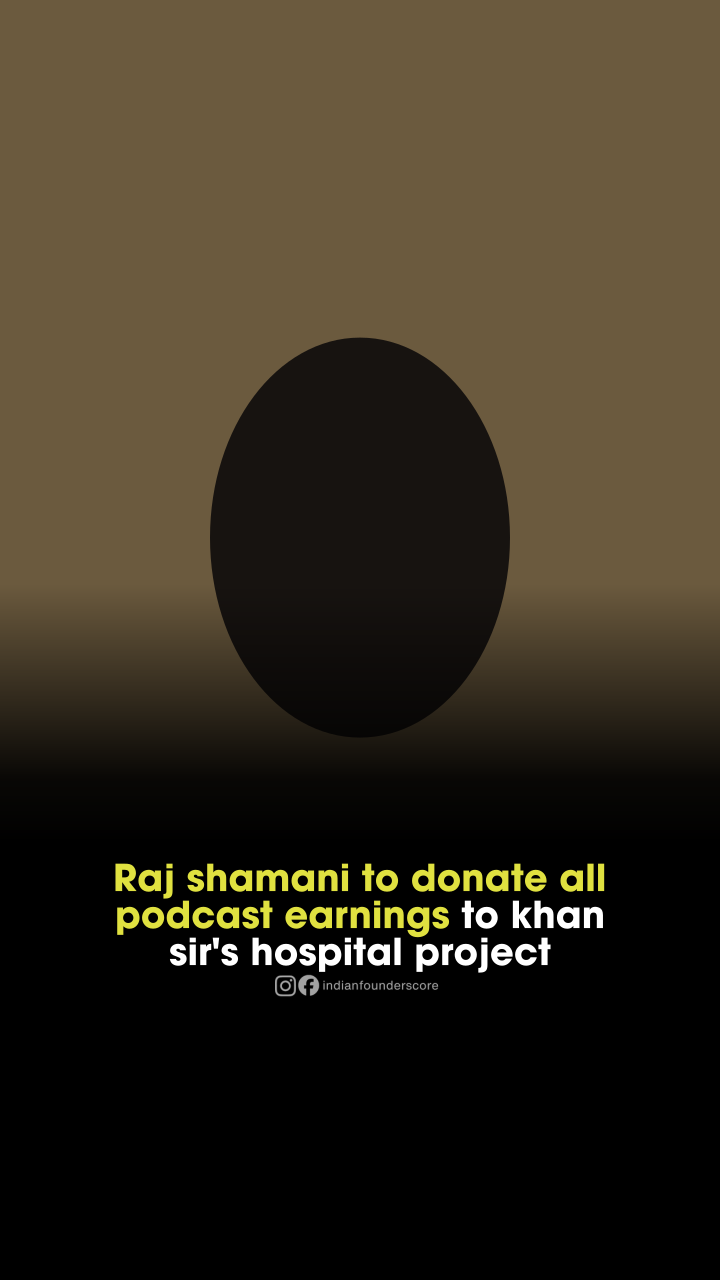
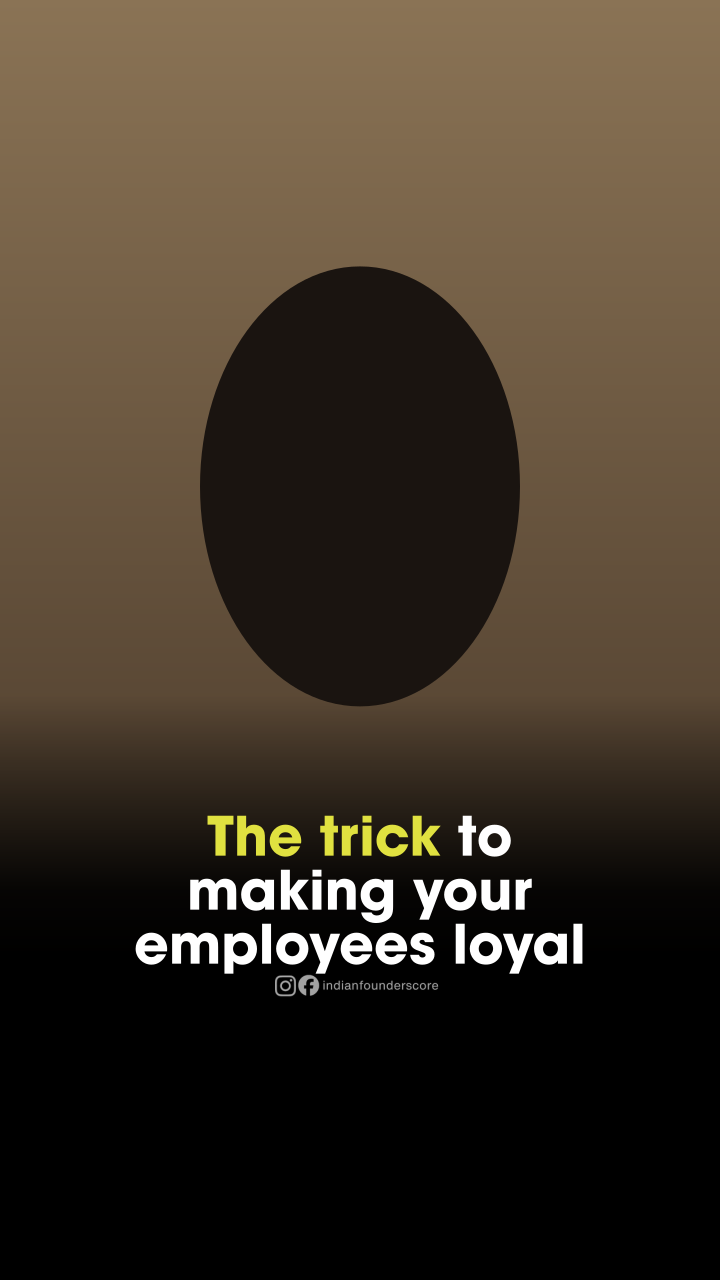
Raise ifc2-news hook onto the gradient and wire Helvetica World Bold.
Solid black bar now starts under the hook so text rides the fade; Helvetica World Bold loads when the licensed file is present.

Changed region(s): [[0.0, 0.4688, 1.0, 0.7812], [0.0, 0.0, 1.0, 0.0938], [0.275, 0.1875, 0.7333, 0.4688]]

diff --git a/hello.jsx b/hello.jsx
@@ -19,8 +19,9 @@ import {
     getNewsTickerFitRatios,
     getNewsTickerBottomMarginRatio,
     getNewsTickerGradientHeight,
-    getNewsTickerBlackPadAbove,
+    getNewsTickerSolidTopOffset,
     getNewsTickerHandleLockup,
+    getNewsTickerFontFamily,
     isPlainTextNewsTicker,
 } from './shared/headlineLayout.js';
 // Inter is loaded globally via public/fonts/*.woff2 (see index.css)
@@ -1658,7 +1659,7 @@ const PreviewCard = memo(({
                                     const isIFC2 = preset.name === 'ifc2-news';
                                     const isPlainText = isPlainTextNewsTicker(preset);
                                     const ntFontWeight = 700;
-                                    const ntFontFamily = "'ITC Avant Garde Gothic', sans-serif";
+                                    const ntFontFamily = getNewsTickerFontFamily(preset);
                                     const [rw, rh] = (preset.ratio || '9:16').split(':').map(Number);
                                     const exportCanvasH = Math.round(720 * (rh / rw));
                                     // Handle lockup reserves a fixed box under the hook (mirrors export)
@@ -1678,14 +1679,16 @@ const PreviewCard = memo(({
                                     const { highlightH, lineGap } = getNewsTickerLineMetrics(preset, fittedExportFs);
                                     const totalBarsH = getNewsTickerStackHeight(preset, fittedExportFs, lines.length);
                                     const bottomMarginPct = getNewsTickerBottomMarginRatio(preset) * 100;
-                                    const blackBandHPct = bottomMarginPct + ((totalBarsH + lockupBlockH) / exportCanvasH) * 100;
-                                    const gradientHPct = (getNewsTickerGradientHeight(preset, exportCanvasH) / exportCanvasH) * 100;
-                                    const lineGapPx = lineGap * previewScale;
                                     // headlinePosition.y = % to raise hook text + gradient
                                     const shiftUpPct = Math.max(0, Math.min(48, localHeadlinePos?.y || 0));
-                                    // Match export: solid pad above first line + black always to frame bottom
-                                    const blackPadPct = (getNewsTickerBlackPadAbove(preset, fittedExportFs) / exportCanvasH) * 100;
-                                    const solidBlackHPct = blackBandHPct + shiftUpPct + blackPadPct;
+                                    // Solid cover: plain-text ifc2 starts under the hook; others pad above it
+                                    const solidTopOffset = getNewsTickerSolidTopOffset(preset, fittedExportFs, totalBarsH);
+                                    const blackBandHPct = bottomMarginPct
+                                        + ((totalBarsH + lockupBlockH) / exportCanvasH) * 100
+                                        + (solidTopOffset / exportCanvasH) * 100;
+                                    const gradientHPct = (getNewsTickerGradientHeight(preset, exportCanvasH) / exportCanvasH) * 100;
+                                    const lineGapPx = lineGap * previewScale;
+                                    const solidBlackHPct = blackBandHPct + shiftUpPct;
                                     const gradientBottomPct = solidBlackHPct; // gradient sits on top of solid cover
 
                                     return (
@@ -2558,7 +2561,10 @@ export default function App() {
     const [newsFontReady, setNewsFontReady] = useState(false);
     useEffect(() => {
         if (!document.fonts) { setNewsFontReady(true); return; }
-        document.fonts.load("700 54px 'ITC Avant Garde Gothic'")
+        Promise.all([
+            document.fonts.load("700 54px 'ITC Avant Garde Gothic'"),
+            document.fonts.load("700 54px 'Helvetica World'"),
+        ])
             .catch(() => {})
             .then(() => document.fonts.ready)
             .then(() => {
@@ -3125,6 +3131,15 @@ export default function App() {
                     font-weight: 700;
                     font-display: swap;
                     src: url('/fonts/ITCAvantGardeGothic-Bold.otf') format('opentype');
+                }
+                /* Helvetica World Bold for indianfounderscore (ifc2-news). Drop licensed file at public/fonts/. */
+                @font-face {
+                    font-family: 'Helvetica World';
+                    font-style: normal;
+                    font-weight: 700;
+                    font-display: swap;
+                    src: url('/fonts/HelveticaWorld-Bold.otf') format('opentype'),
+                         url('/fonts/HelveticaWorld-Bold.ttf') format('truetype');
                 }
                 .pintu-scroll::-webkit-scrollbar {
                     width: 8px;

diff --git a/server/videoProcessor.js b/server/videoProcessor.js
@@ -19,7 +19,7 @@ import {
   getNewsTickerFitRatios,
   getNewsTickerBottomMarginRatio,
   getNewsTickerGradientHeight,
-  getNewsTickerBlackPadAbove,
+  getNewsTickerSolidTopOffset,
   getNewsTickerHandleLockup,
   isPlainTextNewsTicker,
 } from '../shared/headlineLayout.js';
@@ -191,6 +191,30 @@ let _otAvantGardeBold = null;
 try {
   if (existsSync(avantGardeBold)) { _otAvantGardeBold = opentypeLoad(avantGardeBold); console.log('✓ ITC Avant Garde Gothic Bold loaded via opentype.js'); }
 } catch (e) { console.warn('ITC Avant Garde Gothic opentype load failed:', e.message); }
+
+// Helvetica World Bold for indianfounderscore (ifc2-news). Drop the licensed file at
+// server/assets/fonts/HelveticaWorld-Bold.otf (or .ttf) — commercial Monotype face.
+const helveticaWorldBoldCandidates = [
+  resolve(fontsDir, 'HelveticaWorld-Bold.otf'),
+  resolve(fontsDir, 'HelveticaWorld-Bold.ttf'),
+  resolve(fontsDir, 'Helvetica World Bold.otf'),
+  resolve(fontsDir, 'Helvetica World Bold.ttf'),
+];
+const helveticaWorldBold = helveticaWorldBoldCandidates.find((p) => existsSync(p)) || null;
+let _otHelveticaWorldBold = null;
+try {
+  if (helveticaWorldBold) {
+    _otHelveticaWorldBold = opentypeLoad(helveticaWorldBold);
+    console.log('✓ Helvetica World Bold loaded via opentype.js:', helveticaWorldBold);
+  } else {
+    console.warn('Helvetica World Bold not found — ifc2-news will fall back to ITC Avant Garde');
+  }
+} catch (e) { console.warn('Helvetica World Bold opentype load failed:', e.message); }
+
+function newsTickerOpentypeFont(preset) {
+  if (isPlainTextNewsTicker(preset) && _otHelveticaWorldBold) return _otHelveticaWorldBold;
+  return _otAvantGardeBold;
+}
 
 function drawVerifiedBadge(ctx, cx, cy, sz) {
   const half = sz / 2;
@@ -808,11 +832,12 @@ async function generateNewsTickerOverlay(preset, headline, fontScale, wordSpacin
   // keep video dominant like Canva (~bottom 28%)
   const maxTickerH = Math.round(canvasH * 0.28) - lockupBlockH;
   let cleanedHtml = cleanHTML(headline || '');
-  if (!_otAvantGardeBold) {
-    console.warn('[news_ticker] Avant Garde opentype missing — wrap metrics may be wrong');
+  const otFace = newsTickerOpentypeFont(preset);
+  if (!otFace) {
+    console.warn('[news_ticker] opentype face missing — wrap metrics may be wrong');
   }
   const measureWordAtSize = (text, fs) =>
-    _otAvantGardeBold ? _otAvantGardeBold.getAdvanceWidth(text, fs) : (() => {
+    otFace ? otFace.getAdvanceWidth(text, fs) : (() => {
       ctx.font = `bold ${fs}px Inter`;
       // Inter is narrower than Avant Garde — pad measurements so wrap stays conservative.
       return ctx.measureText(text).width * 1.22;
@@ -838,10 +863,10 @@ async function generateNewsTickerOverlay(preset, headline, fontScale, wordSpacin
   );
   // Text / highlight top — the lockup hangs below the last line, inside the same stack
   let barY = canvasH - bottomMargin - lockupBlockH - totalBarsH - shiftY;
-  // Small solid pad above the first line so competitor captions can't peek
-  // through the last stretch of the gradient (especially IFC full-bleed).
-  const blackPadAbove = getNewsTickerBlackPadAbove(preset, fontSize);
-  const blackTop = Math.max(0, barY - blackPadAbove);
+  // Solid cover vs hook: plain-text ifc2 starts the bar under the hook (text on gradient);
+  // other tickers keep a solid pad above the first line.
+  const solidTopOffset = getNewsTickerSolidTopOffset(preset, fontSize, totalBarsH);
+  const blackTop = Math.max(0, barY - solidTopOffset);
 
   const spaceW = measureWordAtSize(' ', fontSize);
 
@@ -947,8 +972,8 @@ async function generateNewsTickerOverlay(preset, headline, fontScale, wordSpacin
         : (isIBCNews || isIFCNews)
           ? (t.bold ? '#000000' : '#FFFFFF')
           : '#FFFFFF';
-      if (_otAvantGardeBold) {
-        drawOpentypeText(ctx, _otAvantGardeBold, t.text, x, baselineY, fontSize, color);
+      if (otFace) {
+        drawOpentypeText(ctx, otFace, t.text, x, baselineY, fontSize, color);
       } else {
         // Fallback only — metrics already padded above
         ctx.font = `bold ${fontSize}px Inter`;

diff --git a/shared/headlineLayout.js b/shared/headlineLayout.js
@@ -347,6 +347,31 @@ export function getNewsTickerBlackPadAbove(preset, fontSize) {
 }
 
 /**
+ * Y offset of the solid black cover relative to the first hook line (barY).
+ * Positive = solid starts above the hook (covers competitor captions under the text).
+ * Negative = solid starts below the first line (hook sits on the gradient above the bar).
+ *
+ * indianfounderscore (plain-text): solid starts just under the last hook line so the
+ * text rides the fade, kissing the top of the black bar — matching the Canva reference.
+ */
+export function getNewsTickerSolidTopOffset(preset, fontSize, totalBarsH) {
+  if (isPlainTextNewsTicker(preset)) {
+    // End of hook stack, minus a thin kiss so the last line still rests on the bar.
+    return -(Math.max(0, totalBarsH - Math.round(fontSize * 0.22)));
+  }
+  return getNewsTickerBlackPadAbove(preset, fontSize);
+}
+
+/**
+ * CSS / canvas font-family for a news ticker. ifc2 uses Helvetica World Bold when the
+ * file is present; everything else stays on ITC Avant Garde Gothic Bold.
+ */
+export function getNewsTickerFontFamily(preset) {
+  if (isPlainTextNewsTicker(preset)) return "'Helvetica World', 'ITC Avant Garde Gothic', sans-serif";
+  return "'ITC Avant Garde Gothic', sans-serif";
+}
+
+/**
  * Handle lockup (Instagram + Facebook + handle wordmark PNG) centred under the hook.
  * `width`/`height` describe a fixed layout box at the 720px canvas: the artwork is
  * contained inside it, so the box is reserved whether or not the PNG resolves and
